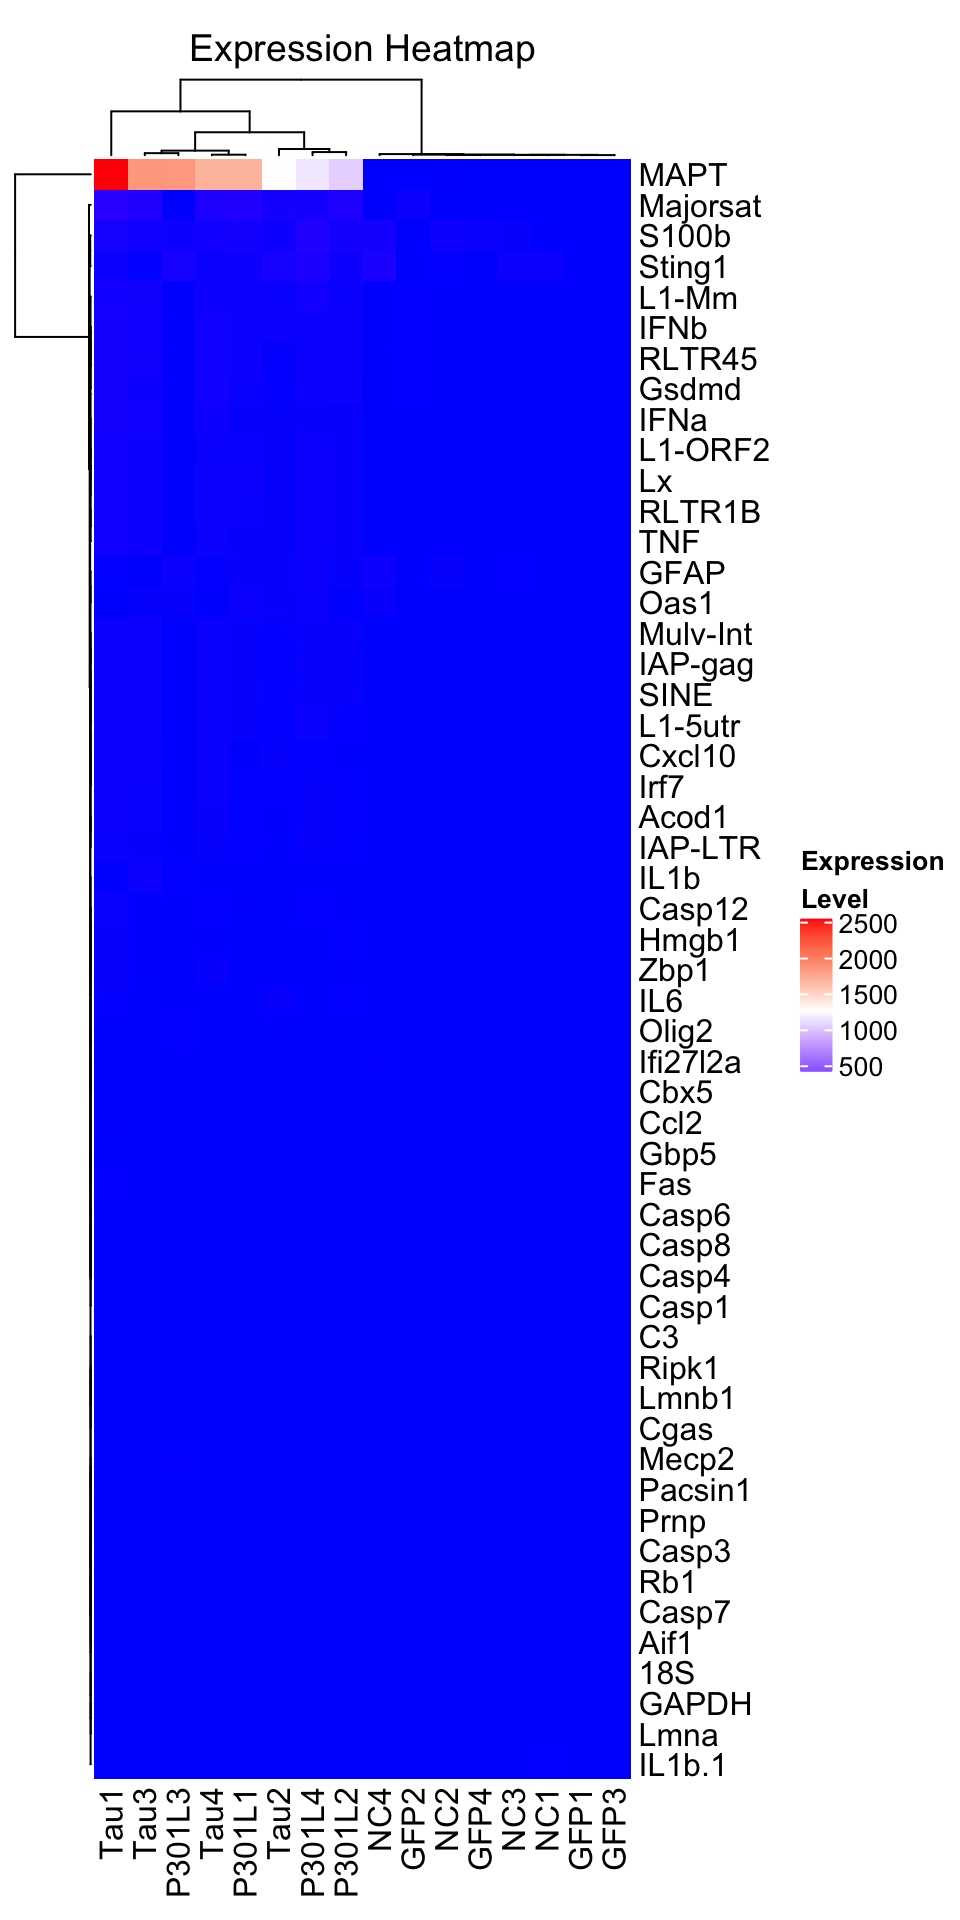
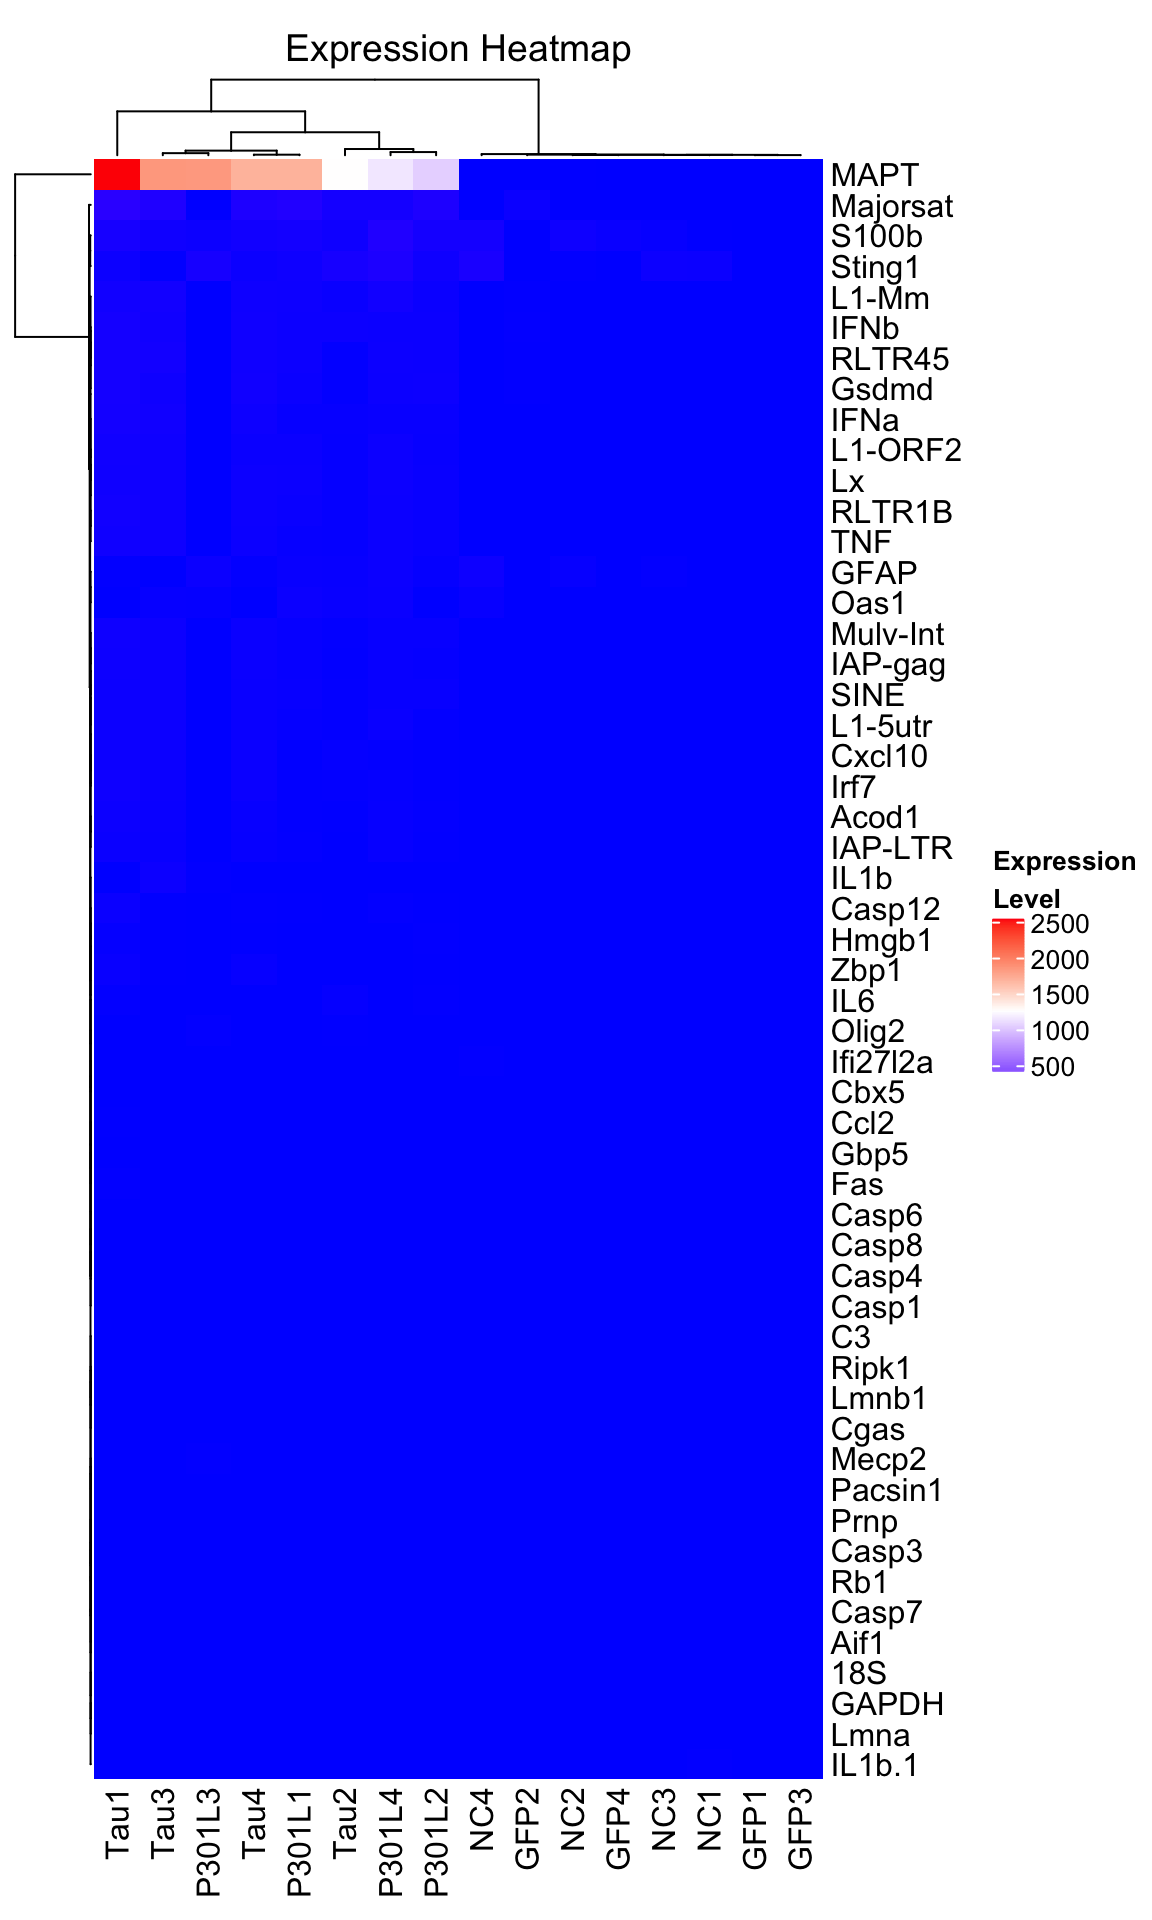
Build site.

diff --git a/docs/qc_210225.html b/docs/qc_210225.html
@@ -436,16 +436,16 @@ This reproducible <a href="http://rmarkdown.rstudio.com">R Markdown</a> analysis
 <div class="panel panel-default">
 <div class="panel-heading">
 <p class="panel-title">
-<a data-toggle="collapse" data-parent="#workflowr-checks" href="#strongRepositoryversionstrongahrefhttpsgithubcomBuilderPiedataQCtree547b8c066797a43fc844e0d8eafe0418c27b35bftargetblank547b8c0a"> <span class="glyphicon glyphicon-ok text-success" aria-hidden="true"></span> <strong>Repository version:</strong> <a href="https://github.com/BuilderPie/data_QC/tree/547b8c066797a43fc844e0d8eafe0418c27b35bf" target="_blank">547b8c0</a> </a>
+<a data-toggle="collapse" data-parent="#workflowr-checks" href="#strongRepositoryversionstrongahrefhttpsgithubcomBuilderPiedataQCtree9d08754f51f124ac41cf48ae29e2c465fb41e79atargetblank9d08754a"> <span class="glyphicon glyphicon-ok text-success" aria-hidden="true"></span> <strong>Repository version:</strong> <a href="https://github.com/BuilderPie/data_QC/tree/9d08754f51f124ac41cf48ae29e2c465fb41e79a" target="_blank">9d08754</a> </a>
 </p>
 </div>
[2 lines of base64/hex data omitted]
 <div class="panel-body">
 <p>
 Great! You are using Git for version control. Tracking code development and connecting the code version to the results is critical for reproducibility.
 </p>
 <p>
-The results in this page were generated with repository version <a href="https://github.com/BuilderPie/data_QC/tree/547b8c066797a43fc844e0d8eafe0418c27b35bf" target="_blank">547b8c0</a>. See the <em>Past versions</em> tab to see a history of the changes made to the R Markdown and HTML files.
+The results in this page were generated with repository version <a href="https://github.com/BuilderPie/data_QC/tree/9d08754f51f124ac41cf48ae29e2c465fb41e79a" target="_blank">9d08754</a>. See the <em>Past versions</em> tab to see a history of the changes made to the R Markdown and HTML files.
 </p>
 <p>
 Note that you need to be careful to ensure that all relevant files for the analysis have been committed to Git prior to generating the results (you can use <code>wflow_publish</code> or <code>wflow_git_commit</code>). workflowr only checks the R Markdown file, but you know if there are other scripts or data files that it depends on. Below is the status of the Git repository when the results were generated:
@@ -489,6 +489,40 @@ Message
 </tr>
 </thead>
 <tbody>
+<tr>
+<td>
+Rmd
+</td>
+<td>
+<a href="https://github.com/BuilderPie/data_QC/blob/9d08754f51f124ac41cf48ae29e2c465fb41e79a/analysis/qc_210225.Rmd" target="_blank">9d08754</a>
+</td>
+<td>
+BuilderPie
+</td>
+<td>
+2021-02-25
+</td>
+<td>
+Publish the initial files for myproject
+</td>
+</tr>
+<tr>
+<td>
+html
+</td>
+<td>
+<a href="https://rawcdn.githack.com/BuilderPie/data_QC/b7c485129fecfa442e8c52cf6dbf96ee21fbbb29/docs/qc_210225.html" target="_blank">b7c4851</a>
+</td>
+<td>
+BuilderPie
+</td>
+<td>
+2021-02-25
+</td>
+<td>
+Build site.
+</td>
+</tr>
 <tr>
 <td>
 Rmd
@@ -781,7 +815,44 @@ print(Heatmap(df[,],
               na_col = &quot;black&quot;,
               column_title = paste0(&quot;Expression Heatmap&quot;),
               heatmap_legend_param = list(title = &quot;Expression\nLevel&quot;)))</code></pre>
-<p><img src="figure/qc_210225.Rmd/unnamed-chunk-3-1.png" width="480" style="display: block; margin: auto;" /></p>
+<p><img src="figure/qc_210225.Rmd/unnamed-chunk-3-1.png" width="576" style="display: block; margin: auto;" /></p>
+<p>
+<button type="button" class="btn btn-default btn-xs btn-workflowr btn-workflowr-fig" data-toggle="collapse" data-target="#fig-unnamed-chunk-3-1">
+Past versions of unnamed-chunk-3-1.png
+</button>
+</p>
+<div id="fig-unnamed-chunk-3-1" class="collapse">
+<div class="table-responsive">
+<table class="table table-condensed table-hover">
+<thead>
+<tr>
+<th>
+Version
+</th>
+<th>
+Author
+</th>
+<th>
+Date
+</th>
+</tr>
+</thead>
+<tbody>
+<tr>
+<td>
+<a href="https://github.com/BuilderPie/data_QC/blob/b7c485129fecfa442e8c52cf6dbf96ee21fbbb29/docs/figure/qc_210225.Rmd/unnamed-chunk-3-1.png" target="_blank">b7c4851</a>
+</td>
+<td>
+BuilderPie
+</td>
+<td>
+2021-02-25
+</td>
+</tr>
+</tbody>
+</table>
+</div>
+</div>
 <hr />
 </div>
 <div id="heatmap---expression-wo-mapt" class="section level2">
@@ -797,7 +868,44 @@ print(Heatmap(df_1,
               na_col = &quot;black&quot;,
               column_title = paste0(&quot;Expression Heatmap wo MAPT&quot;),
               heatmap_legend_param = list(title = &quot;Expression\nLevel&quot;)))</code></pre>
-<p><img src="figure/qc_210225.Rmd/unnamed-chunk-4-1.png" width="480" style="display: block; margin: auto;" /></p>
+<p><img src="figure/qc_210225.Rmd/unnamed-chunk-4-1.png" width="576" style="display: block; margin: auto;" /></p>
+<p>
+<button type="button" class="btn btn-default btn-xs btn-workflowr btn-workflowr-fig" data-toggle="collapse" data-target="#fig-unnamed-chunk-4-1">
+Past versions of unnamed-chunk-4-1.png
+</button>
+</p>
+<div id="fig-unnamed-chunk-4-1" class="collapse">
+<div class="table-responsive">
+<table class="table table-condensed table-hover">
+<thead>
+<tr>
+<th>
+Version
+</th>
+<th>
+Author
+</th>
+<th>
+Date
+</th>
+</tr>
+</thead>
+<tbody>
+<tr>
+<td>
+<a href="https://github.com/BuilderPie/data_QC/blob/b7c485129fecfa442e8c52cf6dbf96ee21fbbb29/docs/figure/qc_210225.Rmd/unnamed-chunk-4-1.png" target="_blank">b7c4851</a>
+</td>
+<td>
+BuilderPie
+</td>
+<td>
+2021-02-25
+</td>
+</tr>
+</tbody>
+</table>
+</div>
+</div>
 <hr />
 </div>
 <div id="heatmap---expression-wo-mapt-majorsat" class="section level2">
@@ -813,7 +921,44 @@ print(Heatmap(df_1,
               na_col = &quot;black&quot;,
               column_title = paste0(&quot;Expression Heatmap wo MAPT|Majorsat&quot;),
               heatmap_legend_param = list(title = &quot;Expression\nLevel&quot;)))</code></pre>
-<p><img src="figure/qc_210225.Rmd/unnamed-chunk-5-1.png" width="480" style="display: block; margin: auto;" /></p>
+<p><img src="figure/qc_210225.Rmd/unnamed-chunk-5-1.png" width="576" style="display: block; margin: auto;" /></p>
+<p>
+<button type="button" class="btn btn-default btn-xs btn-workflowr btn-workflowr-fig" data-toggle="collapse" data-target="#fig-unnamed-chunk-5-1">
+Past versions of unnamed-chunk-5-1.png
+</button>
+</p>
+<div id="fig-unnamed-chunk-5-1" class="collapse">
+<div class="table-responsive">
+<table class="table table-condensed table-hover">
+<thead>
+<tr>
+<th>
+Version
+</th>
+<th>
+Author
+</th>
+<th>
+Date
+</th>
+</tr>
+</thead>
+<tbody>
+<tr>
+<td>
+<a href="https://github.com/BuilderPie/data_QC/blob/b7c485129fecfa442e8c52cf6dbf96ee21fbbb29/docs/figure/qc_210225.Rmd/unnamed-chunk-5-1.png" target="_blank">b7c4851</a>
+</td>
+<td>
+BuilderPie
+</td>
+<td>
+2021-02-25
+</td>
+</tr>
+</tbody>
+</table>
+</div>
+</div>
 <hr />
 </div>
 <div id="heatmap---expression-wo-mapt-majorsat-s100b" class="section level2">
@@ -829,7 +974,44 @@ print(Heatmap(df_1,
               na_col = &quot;black&quot;,
               column_title = paste0(&quot;Expression Heatmap wo MAPT|Majorsat|S100b&quot;),
               heatmap_legend_param = list(title = &quot;Expression\nLevel&quot;)))</code></pre>
-<p><img src="figure/qc_210225.Rmd/unnamed-chunk-6-1.png" width="480" style="display: block; margin: auto;" /></p>
+<p><img src="figure/qc_210225.Rmd/unnamed-chunk-6-1.png" width="576" style="display: block; margin: auto;" /></p>
+<p>
+<button type="button" class="btn btn-default btn-xs btn-workflowr btn-workflowr-fig" data-toggle="collapse" data-target="#fig-unnamed-chunk-6-1">
+Past versions of unnamed-chunk-6-1.png
+</button>
+</p>
+<div id="fig-unnamed-chunk-6-1" class="collapse">
+<div class="table-responsive">
+<table class="table table-condensed table-hover">
+<thead>
+<tr>
+<th>
+Version
+</th>
+<th>
+Author
+</th>
+<th>
+Date
+</th>
+</tr>
+</thead>
+<tbody>
+<tr>
+<td>
+<a href="https://github.com/BuilderPie/data_QC/blob/b7c485129fecfa442e8c52cf6dbf96ee21fbbb29/docs/figure/qc_210225.Rmd/unnamed-chunk-6-1.png" target="_blank">b7c4851</a>
+</td>
+<td>
+BuilderPie
+</td>
+<td>
+2021-02-25
+</td>
+</tr>
+</tbody>
+</table>
+</div>
+</div>
 <hr />
 </div>
 <div id="heatmap---expression-wo-mapt-majorsat-s100b-sting1" class="section level2">
@@ -845,7 +1027,60 @@ print(Heatmap(df_1,
               na_col = &quot;black&quot;,
               column_title = paste0(&quot;Expression wo MAPT|Majorsat|S100b|Sting1&quot;),
               heatmap_legend_param = list(title = &quot;Expression\nLevel&quot;)))</code></pre>
-<p><img src="figure/qc_210225.Rmd/unnamed-chunk-7-1.png" width="480" style="display: block; margin: auto;" /></p>
+<p><img src="figure/qc_210225.Rmd/unnamed-chunk-7-1.png" width="576" style="display: block; margin: auto;" /></p>
+<p>
+<button type="button" class="btn btn-default btn-xs btn-workflowr btn-workflowr-fig" data-toggle="collapse" data-target="#fig-unnamed-chunk-7-1">
+Past versions of unnamed-chunk-7-1.png
+</button>
+</p>
+<div id="fig-unnamed-chunk-7-1" class="collapse">
+<div class="table-responsive">
+<table class="table table-condensed table-hover">
+<thead>
+<tr>
+<th>
+Version
+</th>
+<th>
+Author
+</th>
+<th>
+Date
+</th>
+</tr>
+</thead>
+<tbody>
+<tr>
+<td>
+<a href="https://github.com/BuilderPie/data_QC/blob/b7c485129fecfa442e8c52cf6dbf96ee21fbbb29/docs/figure/qc_210225.Rmd/unnamed-chunk-7-1.png" target="_blank">b7c4851</a>
+</td>
+<td>
+BuilderPie
+</td>
+<td>
+2021-02-25
+</td>
+</tr>
+</tbody>
+</table>
+</div>
+</div>
+<hr />
+</div>
+<div id="heatmap---log2expression" class="section level2">
+<h2><strong>Heatmap - log2(Expression)</strong></h2>
+<pre class="r"><code>df_1 = log2(df)
+
+min_val = min(df_1, na.rm = T)
+max_val = max(df_1, na.rm = T)
+mid_val = 0
+           
+print(Heatmap(df_1, 
+              col = colorRamp2(c(-10, mid_val, 10), c(&quot;blue&quot;, &quot;white&quot;, &quot;red&quot;)),
+              na_col = &quot;black&quot;,
+              column_title = paste0(&quot;log2(Expression) | min=&quot;, sprintf(&quot;%.1f&quot;, min_val), &quot; | max=&quot;, sprintf(&quot;%.1f&quot;, max_val)),
+              heatmap_legend_param = list(title = &quot;log2\nExpression\nLevel&quot;)))</code></pre>
+<p><img src="figure/qc_210225.Rmd/unnamed-chunk-8-1.png" width="576" style="display: block; margin: auto;" /></p>
 <br>
 <p>
 <button type="button" class="btn btn-default btn-workflowr btn-workflowr-sessioninfo" data-toggle="collapse" data-target="#workflowr-sessioninfo" style="display: block;">

diff --git a/docs/index.html b/docs/index.html
@@ -370,16 +370,16 @@ This reproducible <a href="http://rmarkdown.rstudio.com">R Markdown</a> analysis
 <div class="panel panel-default">
 <div class="panel-heading">
 <p class="panel-title">
-<a data-toggle="collapse" data-parent="#workflowr-checks" href="#strongRepositoryversionstrongahrefhttpsgithubcomBuilderPiedataQCtree547b8c066797a43fc844e0d8eafe0418c27b35bftargetblank547b8c0a"> <span class="glyphicon glyphicon-ok text-success" aria-hidden="true"></span> <strong>Repository version:</strong> <a href="https://github.com/BuilderPie/data_QC/tree/547b8c066797a43fc844e0d8eafe0418c27b35bf" target="_blank">547b8c0</a> </a>
+<a data-toggle="collapse" data-parent="#workflowr-checks" href="#strongRepositoryversionstrongahrefhttpsgithubcomBuilderPiedataQCtree9d08754f51f124ac41cf48ae29e2c465fb41e79atargetblank9d08754a"> <span class="glyphicon glyphicon-ok text-success" aria-hidden="true"></span> <strong>Repository version:</strong> <a href="https://github.com/BuilderPie/data_QC/tree/9d08754f51f124ac41cf48ae29e2c465fb41e79a" target="_blank">9d08754</a> </a>
 </p>
 </div>
[2 lines of base64/hex data omitted]
 <div class="panel-body">
 <p>
 Great! You are using Git for version control. Tracking code development and connecting the code version to the results is critical for reproducibility.
 </p>
 <p>
-The results in this page were generated with repository version <a href="https://github.com/BuilderPie/data_QC/tree/547b8c066797a43fc844e0d8eafe0418c27b35bf" target="_blank">547b8c0</a>. See the <em>Past versions</em> tab to see a history of the changes made to the R Markdown and HTML files.
+The results in this page were generated with repository version <a href="https://github.com/BuilderPie/data_QC/tree/9d08754f51f124ac41cf48ae29e2c465fb41e79a" target="_blank">9d08754</a>. See the <em>Past versions</em> tab to see a history of the changes made to the R Markdown and HTML files.
 </p>
 <p>
 Note that you need to be careful to ensure that all relevant files for the analysis have been committed to Git prior to generating the results (you can use <code>wflow_publish</code> or <code>wflow_git_commit</code>). workflowr only checks the R Markdown file, but you know if there are other scripts or data files that it depends on. Below is the status of the Git repository when the results were generated:
@@ -423,6 +423,23 @@ Message
 </tr>
 </thead>
 <tbody>
+<tr>
+<td>
+html
+</td>
+<td>
+<a href="https://rawcdn.githack.com/BuilderPie/data_QC/b7c485129fecfa442e8c52cf6dbf96ee21fbbb29/docs/index.html" target="_blank">b7c4851</a>
+</td>
+<td>
+BuilderPie
+</td>
+<td>
+2021-02-25
+</td>
+<td>
+Build site.
+</td>
+</tr>
 <tr>
 <td>
 html
